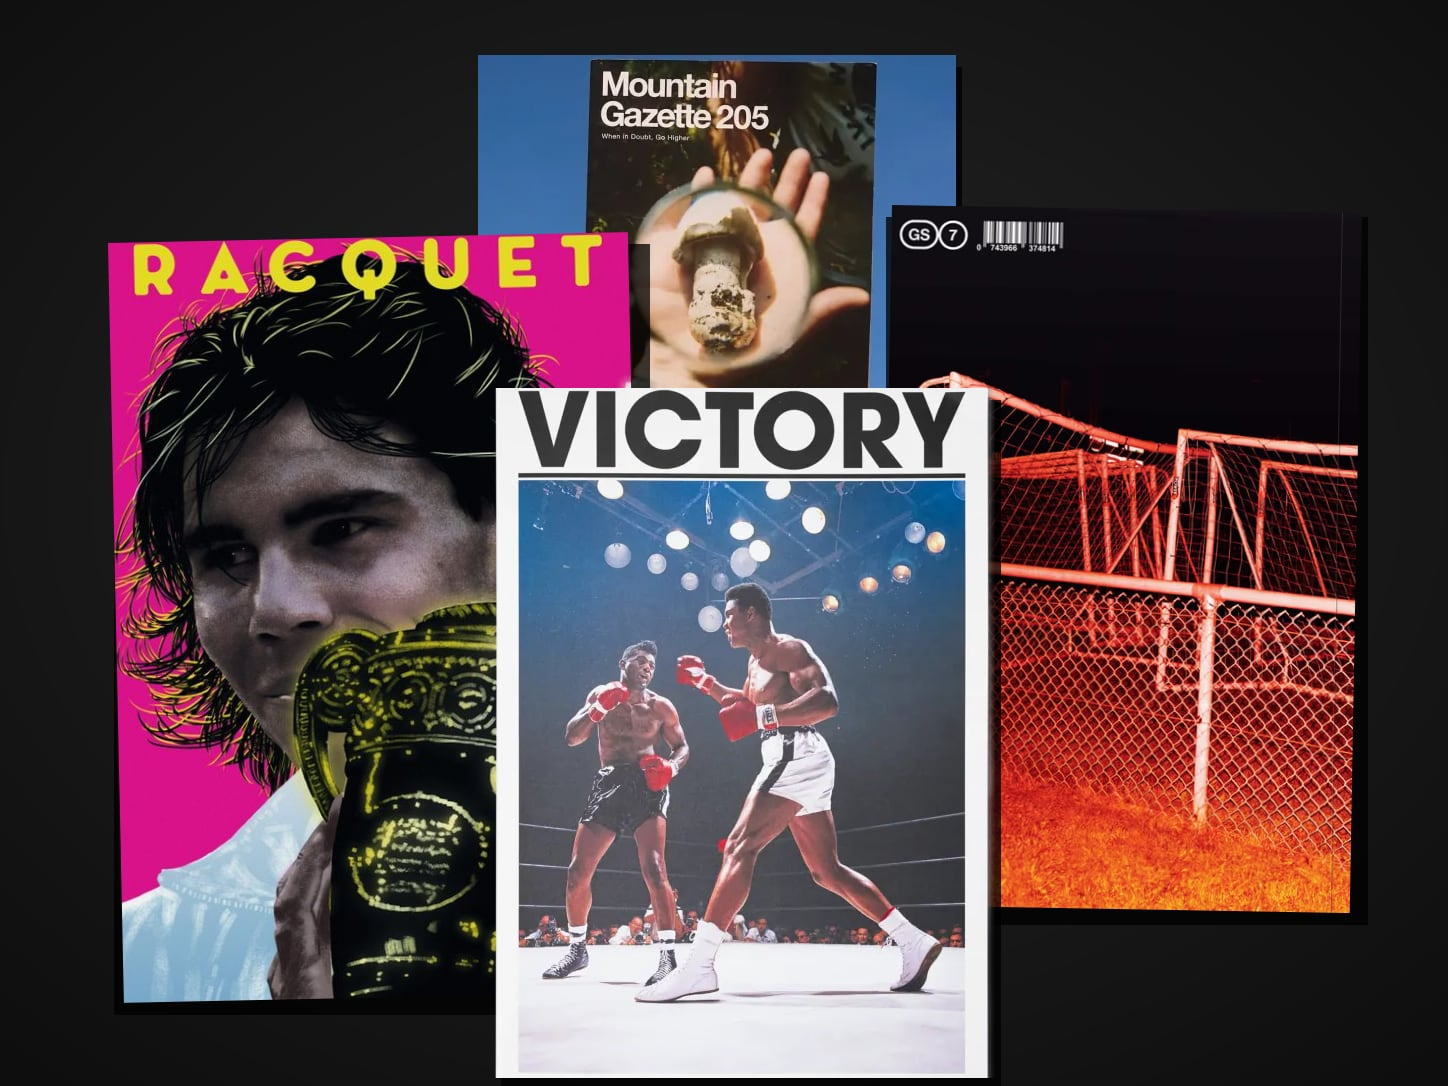
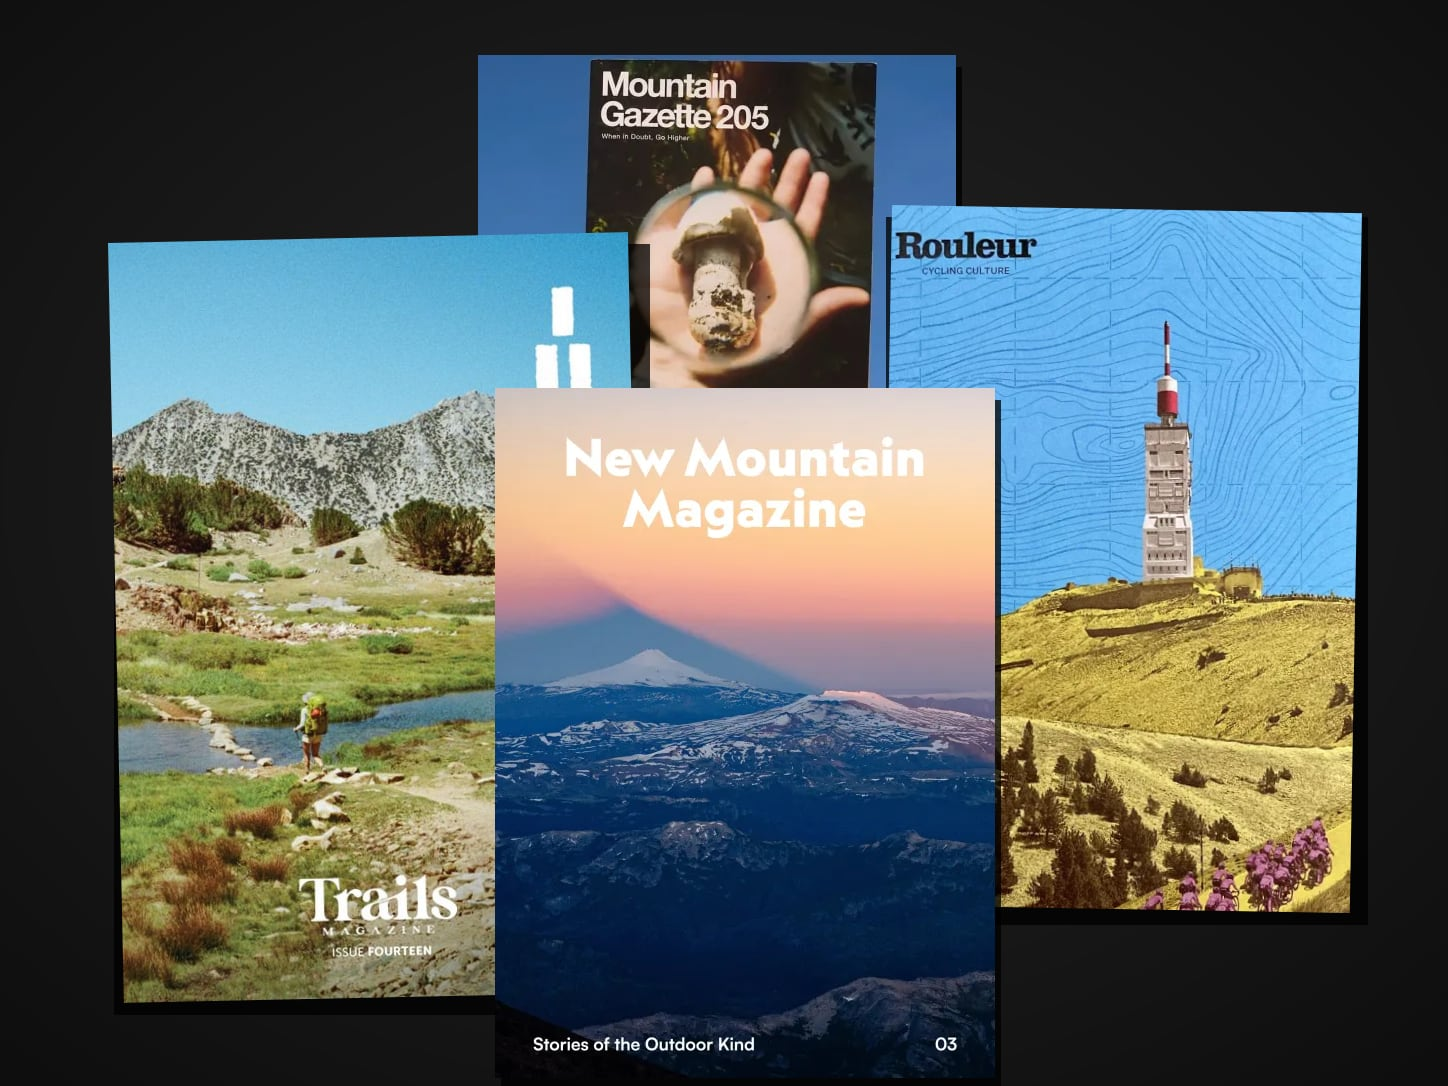
Trailhead: outdoor and running lineup
Mountain Gazette, New Mountain, Trails, Field Mag, Rouleur, Like the
Wind, Good Sport, OPEN Tennis and Pitch. Victory Journal, Racquet,
The Surfer's Journal and Huck drop out. Rooms now name bike shops.

Claude-Session: https://claude.ai/code/session_014yKBgTu8BG1Gb5QbTGC8BK

diff --git a/src/lib/packs.ts b/src/lib/packs.ts
@@ -115,26 +115,26 @@ export const PACKS: Pack[] = [
   {
     slug: 'trailhead',
     name: 'The Trailhead',
-    rooms: 'Outdoor Shops · Running Stores · Climbing Gyms · Run Clubs',
+    rooms: 'Outdoor Shops · Running Stores · Bike Shops · Climbing Gyms',
     short: 'Outdoor · Running',
     price: 200,
     blurb:
       "Mountains, courts, long runs, and the people who can't sit still. Print for the room where everyone just got back from somewhere.",
     count: '9 titles',
-    retail: '$255.00',
+    retail: '$246.00',
     image: '/assets/pack-trailhead.jpg',
     // TODO(stripe): replace with the Trailhead $200 and $300 Payment Links.
     order: PENDING_ORDER('The Trailhead'),
     withStand: PENDING_ORDER('The Trailhead, with stand'),
     contents: [
       { title: 'Mountain Gazette', slug: 'mountain-gazette' },
-      { title: 'Victory Journal', slug: 'victory-journal' },
-      { title: 'Racquet', slug: 'racquet-mag' },
-      { title: 'Good Sport', slug: 'good-sport' },
-      { title: "The Surfer's Journal", slug: 'the-surfers-journal' },
+      { title: 'New Mountain Magazine', slug: 'new-mountain-magazine' },
+      { title: 'Trails', slug: 'trails' },
+      { title: 'Field Mag', slug: 'field-mag' },
+      { title: 'Rouleur', slug: 'rouleur' },
       { title: 'Like the Wind', slug: 'like-the-wind' },
+      { title: 'Good Sport', slug: 'good-sport' },
       { title: 'OPEN Tennis', slug: 'open-tennis-magazine' },
-      { title: 'Huck', image: '/assets/covers/lockerroom_04_huck.jpg' },
       { title: 'Pitch', slug: 'pitch' },
     ],
   },
